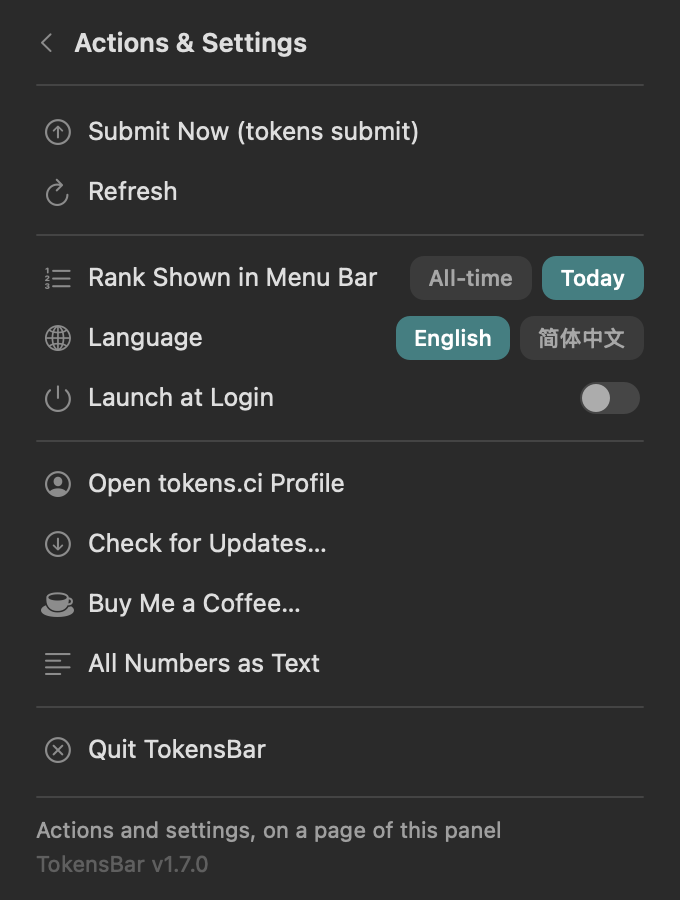
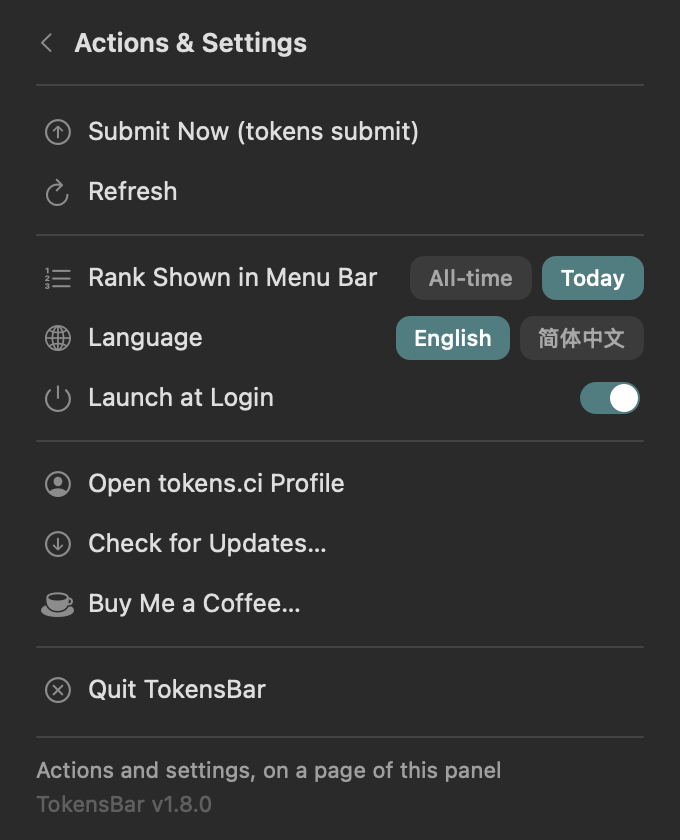
Drop the panel's route back into the plain menu
The actions page carried an "All Numbers as Text" row that popped the NSMenu
over the panel, and a right-click anywhere in the panel did the same. Both were
hops from one menu into another: you were already looking at the numbers, and
the row put a second, older-looking list on top of them. The two surfaces are
split by gesture now — left-click the icon for the panel, right-click the icon
for the menu — and nothing inside the panel reaches back into the menu.

The menu itself is untouched: same verbs, same ⌘S/⌘R/⌘Q, still one level deep,
still what a right-click on the status item opens. Removing the row takes
`PanelAction.textMenu` and the action.numbers / hint.numbers strings with it.

The footer hint pointed at a gesture that no longer exists, so it names the icon
now, shortened on the English side to keep it inside the panel's width. All four
panel screenshots are regenerated: the actions page had the removed row in it
and the numbers page had the old hint.

Folded into the unreleased 1.8.0 rather than bumped again — no v1.8.0 tag or
release exists yet.

diff --git a/Sources/Strings.swift b/Sources/Strings.swift
@@ -75,7 +75,6 @@ enum L10n {
         "action.checkUpdates": ("Check for Updates…", "检查更新"),
         "action.support": ("Buy Me a Coffee…", "请我喝杯咖啡…"),
         "action.language": ("Language", "语言"),
-        "action.numbers": ("All Numbers as Text", "全部数据（文本）"),
         "action.quit": ("Quit TokensBar", "退出 TokensBar"),
 
         "update.checking": ("Checking for updates…", "检查更新中…"),
@@ -133,8 +132,8 @@ enum L10n {
 
         // The footer line: what the pointer is over does, or how the panel works
         // when it is over nothing.
-        "panel.hint": ("Click a block for its detail view · right-click for the menu",
-                       "点任意区块看详情 · 右键打开菜单"),
+        "panel.hint": ("Click a block for detail · right-click the icon for the menu",
+                       "点任意区块看详情 · 右键图标打开菜单"),
         "hint.profile": ("Open your tokens.ci profile in the browser",
                          "在浏览器里打开 tokens.ci 主页"),
         "hint.menu": ("Actions and settings, on a page of this panel",
@@ -159,8 +158,6 @@ enum L10n {
         "hint.updates": ("Compare this build against the latest release",
                          "拿当前版本和最新 release 比一下"),
         "hint.support": ("USDT tip addresses, on either chain", "USDT 打赏地址，两条链都行"),
-        "hint.numbers": ("The plain text menu, for the keyboard and VoiceOver",
-                         "纯文字菜单，给键盘和 VoiceOver 用"),
         "hint.quit": ("Quit TokensBar", "退出 TokensBar"),
 
         "tooltip.localFailed": ("tokens CLI not found, or the local scan failed",

diff --git a/Sources/PanelMenu.swift b/Sources/PanelMenu.swift
@@ -109,8 +109,6 @@ final class PanelMenuView: NSView {
             kind: .action(.updates), hint: t("hint.updates"), accented: data.updateWaiting))
         out.append(MenuRow(symbol: "cup.and.saucer.fill", title: t("action.support"),
                            kind: .action(.support), hint: t("hint.support")))
-        out.append(MenuRow(symbol: "text.alignleft", title: t("action.numbers"),
-                           kind: .action(.textMenu), hint: t("hint.numbers")))
         out.append(MenuRow())
         out.append(MenuRow(symbol: "xmark.circle", title: t("action.quit"),
                            kind: .action(.quit), hint: t("hint.quit")))
@@ -326,11 +324,6 @@ final class PanelMenuView: NSView {
         let p = convert(event.locationInWindow, from: nil)
         guard let hit = regions(geometry()).first(where: { $0.0.contains(p) }) else { return }
         onAction?(hit.1)
-    }
-
-    /// Right-clicking still pops the plain menu, as it does on the numbers page.
-    override func rightMouseUp(with event: NSEvent) {
-        onAction?(.textMenu)
     }
 
     override func resetCursorRects() {

diff --git a/Sources/Panel.swift b/Sources/Panel.swift
@@ -22,8 +22,6 @@ enum PanelAction: Equatable {
     case toggleLogin
     case updates
     case support
-    /// Pops the plain NSMenu, which still carries every number as text.
-    case textMenu
     case quit
 }
 
@@ -42,7 +40,6 @@ extension PanelAction: CustomStringConvertible {
         case .toggleLogin: return "launch-at-login"
         case .updates: return "updates"
         case .support: return "support"
-        case .textMenu: return "text-menu"
         case .quit: return "quit"
         }
     }
@@ -844,12 +841,6 @@ final class PanelView: NSView {
         guard let hit = regions(geometry()).first(where: { $0.0.contains(p) }) else { return }
         if hit.1 == .submit && data.busy { return }
         onAction?(hit.1)
-    }
-
-    /// Right-clicking anywhere in the panel opens the plain menu, matching the
-    /// status item — that is still the route to the numbers as text.
-    override func rightMouseUp(with event: NSEvent) {
-        onAction?(.textMenu)
     }
 
     override func resetCursorRects() {

diff --git a/Sources/main.swift b/Sources/main.swift
@@ -917,8 +917,6 @@ final class Controller: NSObject, NSMenuDelegate {
             break
         case .profile:
             openProfile()
-        case .textMenu:
-            popMenu()
         case .history:
             guard let s = server, let from = s.contribStart, let to = s.contribEnd else { return }
             DropdownPanel.shared.close()

diff --git a/README.md b/README.md
@@ -57,11 +57,12 @@ actions. The ⋯ button turns the panel to a second page rather than dropping a
 menu over it: submit, refresh, the rank and language switches as pills, a
 launch-at-login switch, the profile link, the update check, the tip page and
 Quit, with **‹ Actions & Settings** back at the top and the build version at the
-bottom. A right-click still pops the plain NSMenu, which carries the same verbs
-with their keyboard shortcuts. That menu is now one level deep: the numbers sit
-at the top of it, so the per-model breakdowns they open are a single click from
-the menu bar, and the rank and language choices are indented rows under a
-heading rather than submenus.
+bottom. The two are cleanly split now — left-click the icon for the panel,
+right-click it for the plain NSMenu, and nothing inside the panel reaches back
+into that menu. The menu keeps the same verbs and their keyboard shortcuts, one
+level deep: the numbers sit at the top of it, so the per-model breakdowns they
+open are a single click from the menu bar, and the rank and language choices are
+indented rows under a heading rather than submenus.
 
 <p align="center">
   <img src="docs/panel-actions.png" width="380" alt="The actions page inside the panel, light mode">
